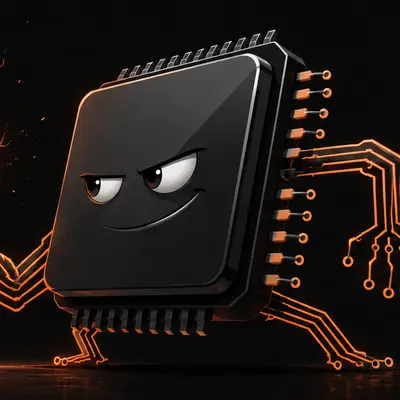
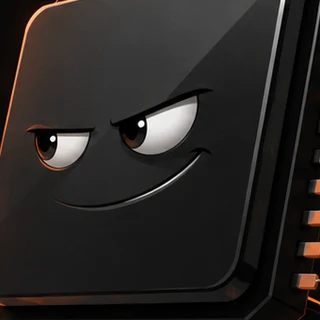
feat(web): S5.2 readable team marks + top-right identity on host/screen
- Re-cut team-carbon/team-silicon marks from the hero as tight face crops
  (brain brow+grin; chip eyes+smirk), 320px square, so they read at 32px.
- Bump /play in-game header marks h-6 → h-8; add the compact Carbon-vs-Silicon
  cluster to the /host header (beside the status block) and the /screen header
  (only when not in the lobby, where the QR sits).
- PROGRESS.md: S5.2 note extended with this final polish pass.

diff --git a/apps/web/app/host/page.tsx b/apps/web/app/host/page.tsx
@@ -14,6 +14,7 @@ import {
   QuizProgress,
   Scoreboard,
   TallyBars,
+  TeamMark,
 } from '@/components/quiz';
 import { ABLY_OS_MCP_BASE } from '@/lib/ably-os';
 import { useAbly } from '@/hooks/useAbly';
@@ -80,12 +81,20 @@ export default function HostPage() {
           <p className="text-xs tracking-widest text-neutral-500 uppercase">host controls</p>
           <h1 className="text-2xl font-bold">{quizId}</h1>
         </div>
-        <div className="text-right text-sm text-neutral-500">
-          <div>
-            connection: <span className="font-medium text-neutral-300">{status}</span>
+        <div className="flex items-center gap-4">
+          {/* Compact Carbon-vs-Silicon identity, balanced against the status block (§S5.2). */}
+          <div className="flex items-center gap-1.5" aria-label="Carbon vs Silicon">
+            <TeamMark team="carbon" className="h-8 w-8" />
+            <span className="text-[0.65rem] font-bold text-neutral-600">vs</span>
+            <TeamMark team="silicon" className="h-8 w-8" />
           </div>
-          <div>
-            phase: <span className="font-medium text-neutral-300">{state.phase}</span> {qLabel}
+          <div className="text-right text-sm text-neutral-500">
+            <div>
+              connection: <span className="font-medium text-neutral-300">{status}</span>
+            </div>
+            <div>
+              phase: <span className="font-medium text-neutral-300">{state.phase}</span> {qLabel}
+            </div>
           </div>
         </div>
       </header>

diff --git a/apps/web/app/screen/page.tsx b/apps/web/app/screen/page.tsx
@@ -14,6 +14,7 @@ import {
   QuizProgress,
   Scoreboard,
   TallyBars,
+  TeamMark,
   TugOfWar,
 } from '@/components/quiz';
 import { useAbly, usePresence } from '@/hooks/useAbly';
@@ -69,6 +70,15 @@ export default function ScreenPage() {
           <div className="text-center">
             <JoinQr url={joinUrl} size={160} />
             <p className="mt-2 font-mono text-xs text-neutral-400">{joinUrl}</p>
+          </div>
+        )}
+        {/* Lobby shows the QR here; once the quiz is running, the corner carries
+            the Carbon-vs-Silicon identity instead (§S5.2). */}
+        {view.phase !== 'lobby' && (
+          <div className="flex items-center gap-1.5" aria-label="Carbon vs Silicon">
+            <TeamMark team="carbon" className="h-9 w-9" />
+            <span className="text-[0.65rem] font-bold text-neutral-600">vs</span>
+            <TeamMark team="silicon" className="h-9 w-9" />
           </div>
         )}
       </header>

diff --git a/apps/web/app/play/page.tsx b/apps/web/app/play/page.tsx
@@ -137,9 +137,9 @@ export default function PlayPage() {
         <div className="flex items-center gap-3">
           {/* Compact Carbon-vs-Silicon identity in the corner (§S5.2). */}
           <div className="flex items-center gap-1" aria-label="Carbon vs Silicon">
-            <TeamMark team="carbon" className="h-6 w-6" />
+            <TeamMark team="carbon" className="h-8 w-8" />
             <span className="text-[0.6rem] font-bold text-neutral-600">vs</span>
-            <TeamMark team="silicon" className="h-6 w-6" />
+            <TeamMark team="silicon" className="h-8 w-8" />
           </div>
           <StatusDot status={status} />
         </div>

diff --git a/PROGRESS.md b/PROGRESS.md
@@ -252,7 +252,7 @@ classified read vs write by verified tool description. **61 read-only tools**, p
 
 **Agent-as-a-module note (2026-07-14, advances S6.4):** Matt asked for an architecture where every builder can design their own agent logic, even if they reuse shared pieces. Each `agents/<slug>/agent.ts` may now export `study` and/or `answer` hooks (`AgentModule` in `agent-module.ts`), reusing shared blocks (`ablyMcpStudy`, `answerQuestion`) or replacing them. Resolution: study → agent.ts, else the named JSON strategy, else none; answer → agent.ts, else the default core. The CLIs load agent.ts dynamically (`agent-loader.ts`, tsx). The bundled web app can't, so `pnpm agents:build` codegens a **static index** (`apps/web/lib/agent-modules.generated.ts`) that the on-demand `/api/agent-turn` route imports — so a custom `answer()` runs in the live turn (Matt chose this over local-only). To let agent.ts import the shared package, `agents/` became a single workspace package (folders stay a path-loaded registry). `matt-opus/agent.ts` is a worked example; `agents/README.md` documents the contract. Verified the web route bundles the cross-boundary chain and serves. Remaining S6.4: CI harness that validates PR'd agents.
 
-**S5.2 note (2026-07-14):** polish pass from Matt's manual-test feedback. (1) Real front door: `/` is a landing (hero + Host/Join); the create grid moved to `/create`. (2) Hero image (`public/hero.webp`, a brain arm-wrestling a chip) on landing + `/screen` lobby + `/play` wait; derived `team-carbon`/`team-silicon` marks give identity continuity in rosters + the tug-of-war (`<TeamMark>`) without dragging the scene onto every screen. (3) Create → land in `/host`, which grew a share panel (QR + join link + "Open big screen"); the standalone quiz-ready page + its confusing "Open screen / Open host controls" pair are gone. (4) Agent availability: preflight-failed agents are greyed "unavailable", excluded from the expected-answerer count, and skipped when firing turns (fixes the Grok-503 stall); grounding/health banners now show only in the lobby or on a genuine problem. (5) Overt segmented progress bar on `/host` + `/screen`. (6) Streak + auto-reveal tucked under an Advanced disclosure on `/create`. Follow-ups: `/screen` roster greys unavailable agents only if the host broadcasts availability (currently host-only); a square hero variant would be needed for player-phone/OG use; the raster hero was generated externally (Matt) — I can't generate images, so this is a hand-off point for future art.
+**S5.2 note (2026-07-14):** polish pass from Matt's manual-test feedback. (1) Real front door: `/` is a landing (hero + Host/Join); the create grid moved to `/create`. (2) Hero image (`public/hero.webp`, a brain arm-wrestling a chip) on landing + `/screen` lobby + `/play` wait; derived `team-carbon`/`team-silicon` marks give identity continuity in rosters + the tug-of-war (`<TeamMark>`) without dragging the scene onto every screen. (3) Create → land in `/host`, which grew a share panel (QR + join link + "Open big screen"); the standalone quiz-ready page + its confusing "Open screen / Open host controls" pair are gone. (4) Agent availability: preflight-failed agents are greyed "unavailable", excluded from the expected-answerer count, and skipped when firing turns (fixes the Grok-503 stall); grounding/health banners now show only in the lobby or on a genuine problem. (5) Overt segmented progress bar on `/host` + `/screen`. (6) Streak + auto-reveal tucked under an Advanced disclosure on `/create`. Follow-ups: `/screen` roster greys unavailable agents only if the host broadcasts availability (currently host-only); a square hero variant would be needed for player-phone/OG use; the raster hero was generated externally (Matt) — I can't generate images, so this is a hand-off point for future art. **Final pass (2026-07-14):** end screens reordered to result-first (podium/mini-podium), a pundit "lower-third" `CommentaryCard` replacing the orange verdict billboard with the verdict trimmed to ~80 words, tighter readable face-crop team marks re-cut from the hero with top-right Carbon-vs-Silicon identity now on host + screen (not just play), the MCP auth banner collapsing from tick to a compact chip, a "not grounded" confirm on Start when agents are declared, a core fix healing stale raw-id scoreboard names when presence arrives late, and shared-screen copy.
 
 ## Deviations
 